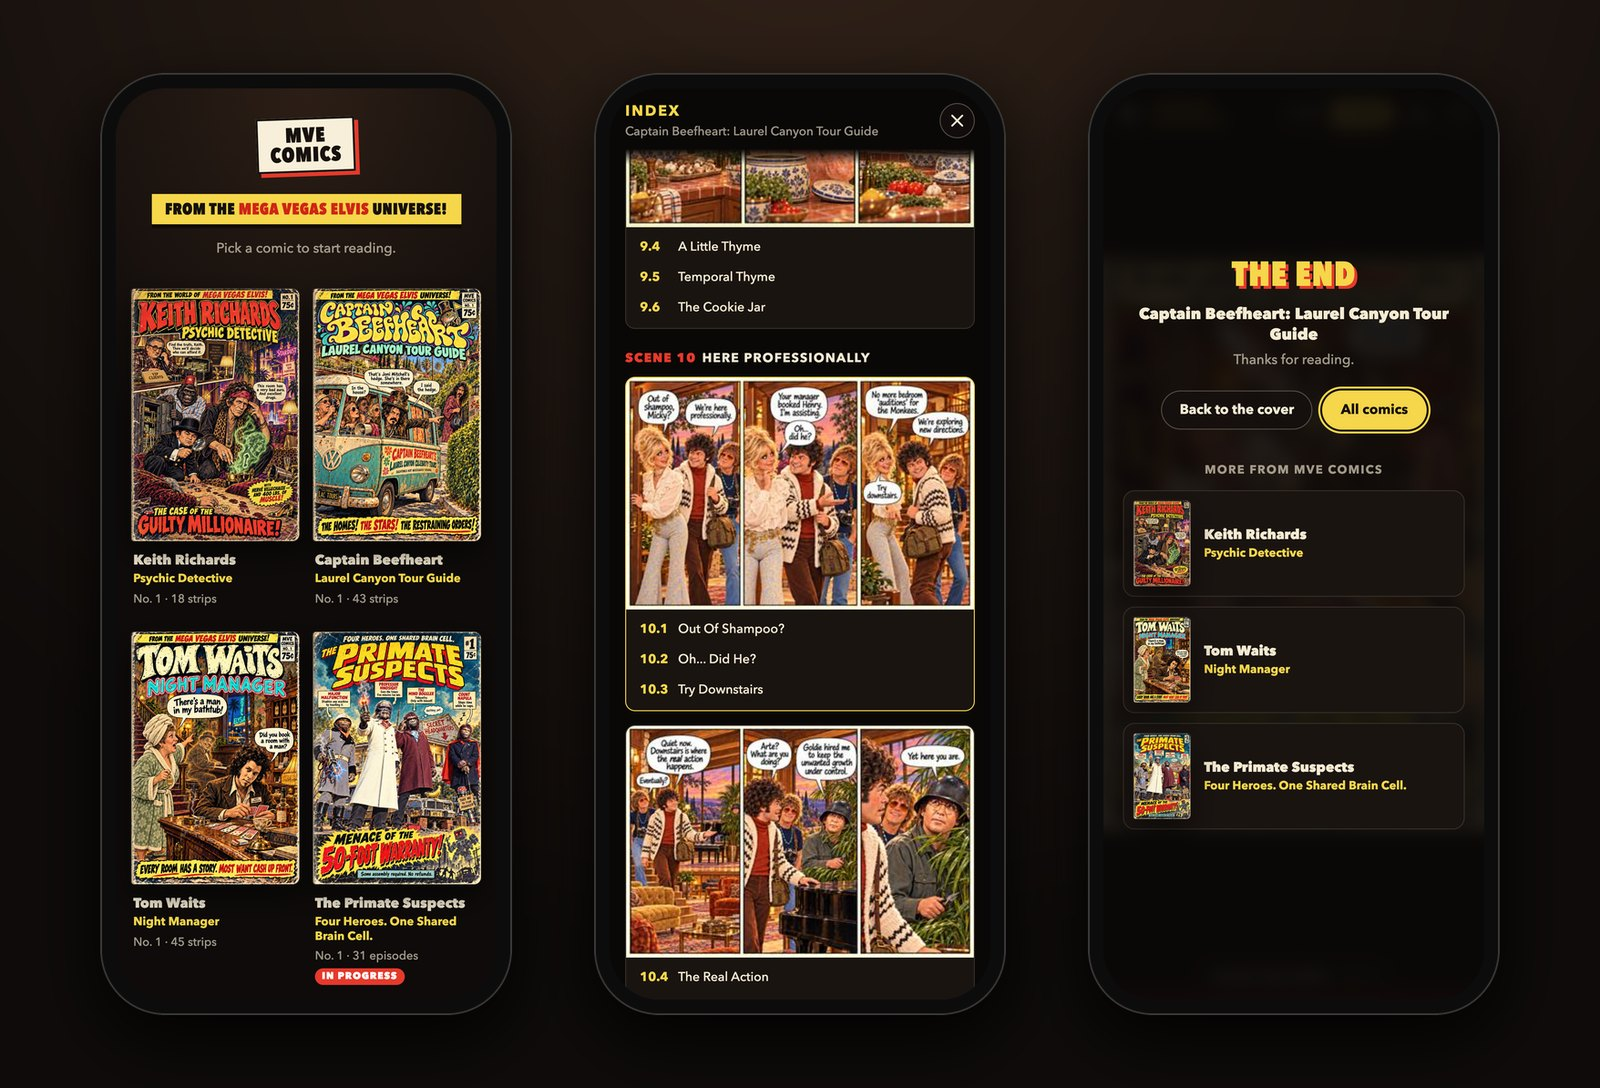
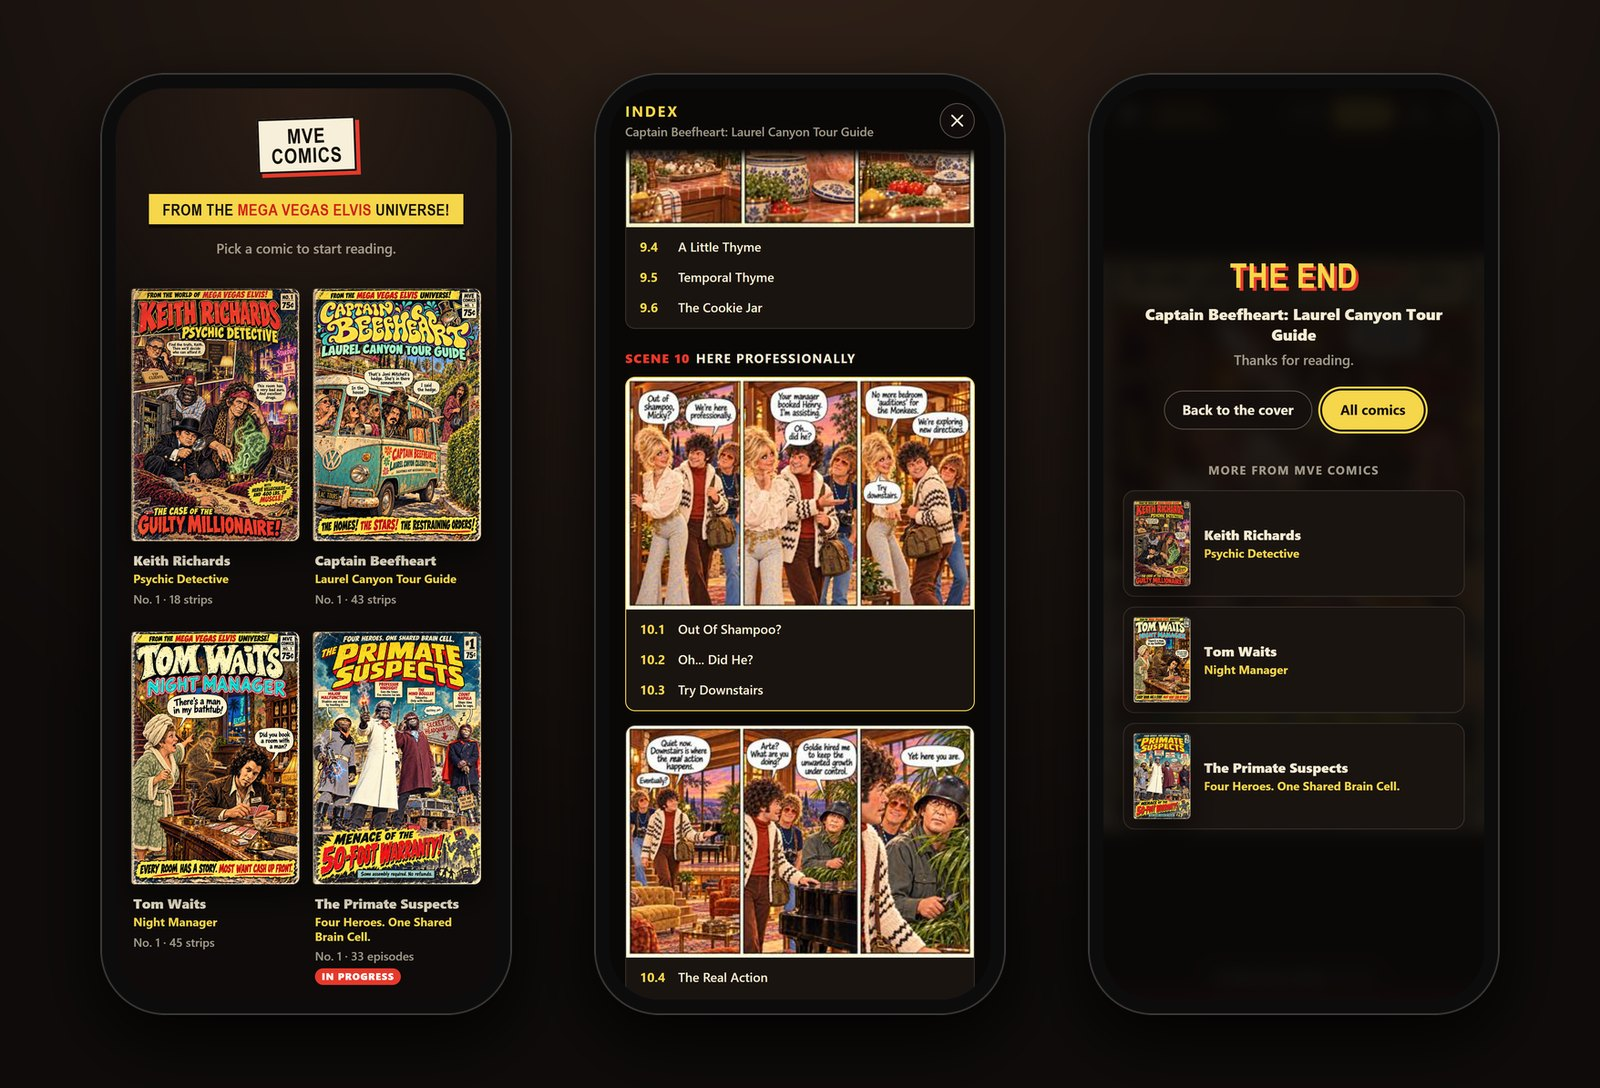
Add Peg character guide and Primate Suspects episodes 32 and 33
Peg's "Clive's guide" page sits right after episode 30 as its own
unnumbered section. Episode 32, "Our Song", and 33, "Water Memory",
are six-panel pages. The comic now has 33 episodes and 45 pages.

diff --git a/README.md b/README.md
@@ -49,7 +49,7 @@ tips from Fats. Vincent Price buys a wish-granting idol, Fats makes it float, an
 Carson has fired Tom and his hotel security man, Don Knotts. For the second time this month.
 
 ### The Primate Suspects
-**Four Heroes. One Shared Brain Cell.** · In progress · 31 episodes so far · [Start reading](https://arnegleason.github.io/keith-psychic-detective/#primate-suspects)
+**Four Heroes. One Shared Brain Cell.** · In progress · 33 episodes so far · [Start reading](https://arnegleason.github.io/keith-psychic-detective/#primate-suspects)
 
 Major Malfunction disables any machine by touching it. Professor Hindsight sees the future five
 minutes too late. The Mind Boggler has telepathy, but only with himself. Count Napula stops time
